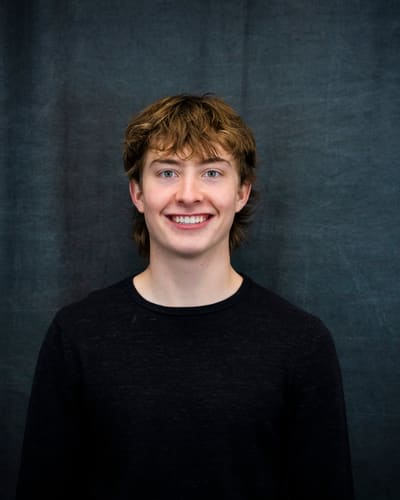
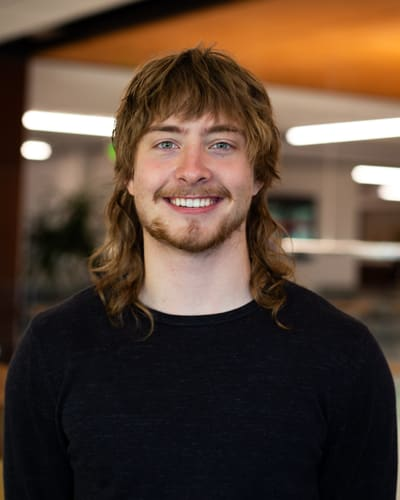
content: swap in new portrait photo
Replace the hero portrait with a newer photo. The source in
assets/images/ is downscaled to 1600x2400 (from a 4.9 MB original)
and the 400px and 800px JPEG and WebP crops are regenerated with
`npm run images`. The alt text now describes the new photo.

diff --git a/site/index.html b/site/index.html
@@ -142,7 +142,7 @@
               width="400"
               height="500"
               fetchpriority="high"
-              alt="Portrait of Calvin Hickey smiling in front of a dark backdrop"
+              alt="Portrait of Calvin Hickey smiling, wearing a dark sweater in a warmly lit room"
             />
           </picture>
           <figcaption>Salt Lake City, Utah</figcaption>
